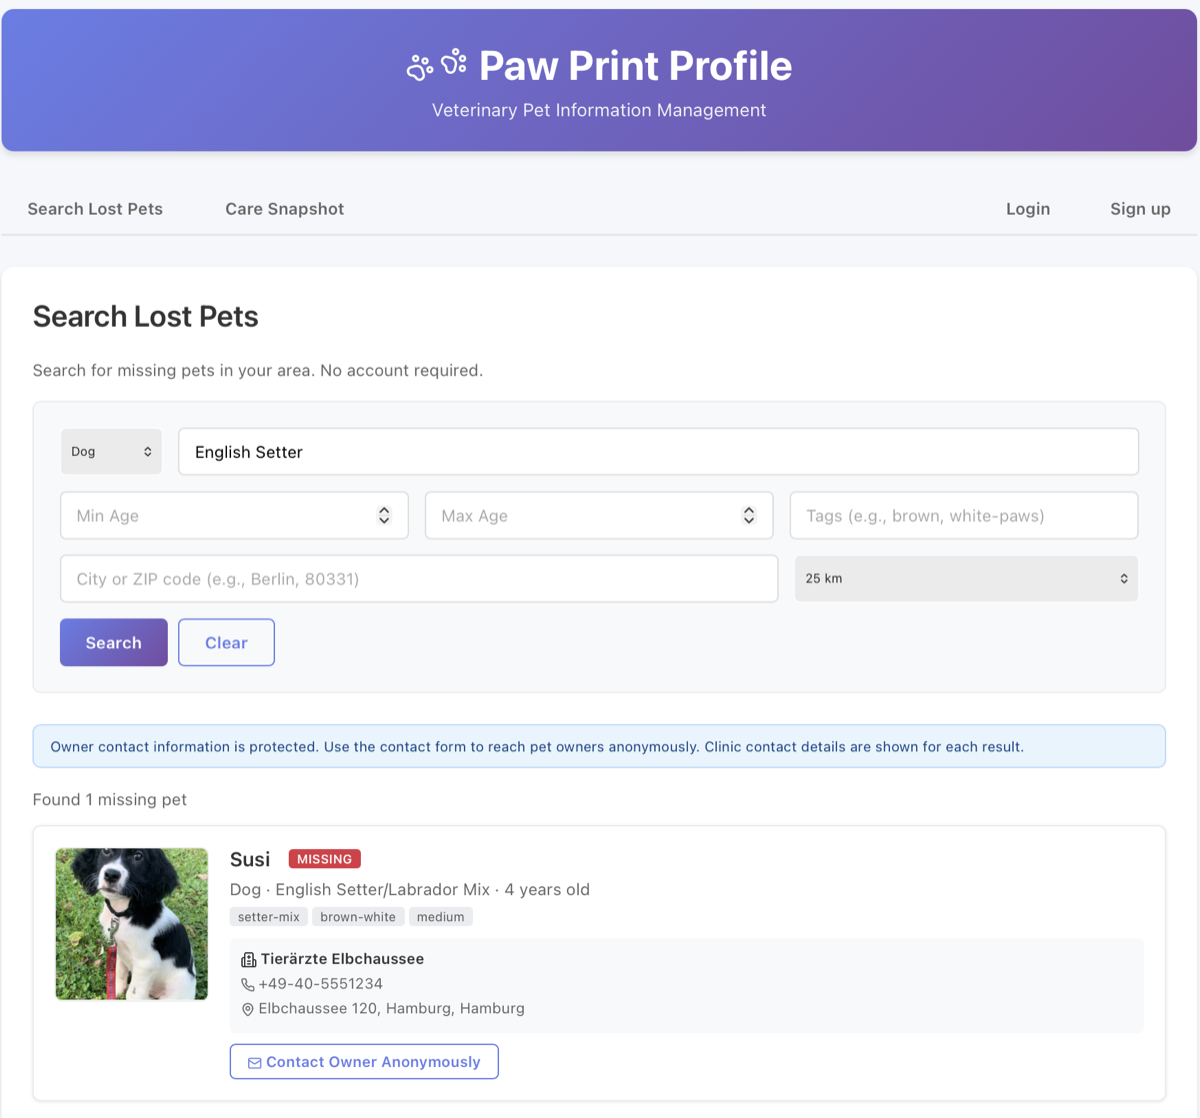
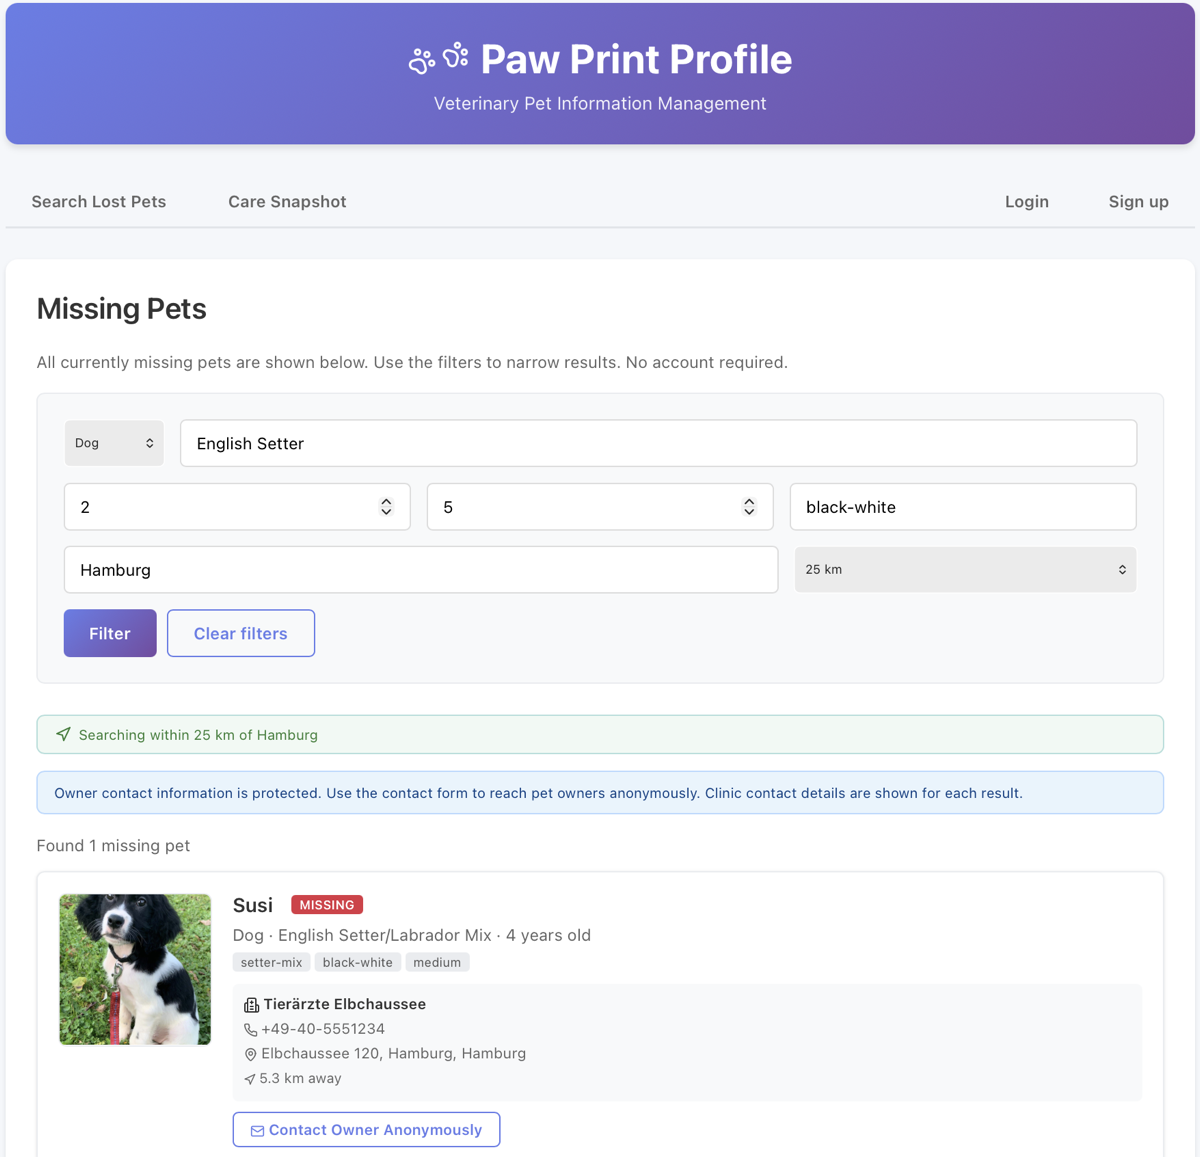
fix(#160): search tag filter, seed reset, architecture docs (#161)
- Denormalize image tags onto pet METADATA record (tags: string[])
- Use DynamoDB FilterExpression with contains() for server-side tag filtering
- ImageRepository.upload() merges tags onto pet record via list_append
- SearchService.searchByLocation() applies tag filtering for location results
- Add --force flag to seed-data.ts (drops/recreates table without container restart)
- Clarify architecture doc: auth handler, notification service, client layer notes
- Update deployment scripts and README reset instructions
- Update search page screenshot

diff --git a/backend/src/repositories/pet-repository.ts b/backend/src/repositories/pet-repository.ts
@@ -489,19 +489,36 @@ export class PetRepository {
   async search(criteria: SearchCriteria): Promise<Pet[]> {
     if (criteria.species) {
       // Use GSI2 for species-based search
+      const expressionAttributeValues: Record<string, any> = {
+        ':species': `SPECIES#${criteria.species}`,
+      }
+
+      // Build FilterExpression for tags (DynamoDB-side filtering)
+      let filterExpression: string | undefined
+      const expressionAttributeNames: Record<string, string> = {}
+
+      if (criteria.tags && criteria.tags.length > 0) {
+        const tagConditions = criteria.tags.map((tag, i) => {
+          expressionAttributeValues[`:tag${i}`] = tag
+          return `contains(#tags, :tag${i})`
+        })
+        filterExpression = tagConditions.join(' AND ')
+        expressionAttributeNames['#tags'] = 'tags'
+      }
+
       const command = new QueryCommand({
         TableName: this.tableName,
         IndexName: 'GSI2',
         KeyConditionExpression: 'GSI2PK = :species',
-        ExpressionAttributeValues: {
-          ':species': `SPECIES#${criteria.species}`,
-        },
+        ExpressionAttributeValues: expressionAttributeValues,
+        ...(filterExpression && { FilterExpression: filterExpression }),
+        ...(Object.keys(expressionAttributeNames).length > 0 && { ExpressionAttributeNames: expressionAttributeNames }),
       })
 
       const response = await this.docClient.send(command)
       let pets = response.Items as Pet[] || []
 
-      // Apply additional filters
+      // Apply additional filters (application-side for non-indexed attributes)
       if (criteria.breed) {
         pets = pets.filter(pet => pet.breed && pet.breed.toLowerCase().includes(criteria.breed!.toLowerCase()))
       }
@@ -517,12 +534,26 @@ export class PetRepository {
       return pets
     } else {
       // Fallback to scan if no species specified
+      const expressionAttributeValues: Record<string, any> = {
+        ':sk': 'METADATA',
+      }
+      const expressionAttributeNames: Record<string, string> = {}
+      const filterConditions: string[] = ['SK = :sk']
+
+      // Add tag filtering (DynamoDB-side)
+      if (criteria.tags && criteria.tags.length > 0) {
+        criteria.tags.forEach((tag, i) => {
+          expressionAttributeValues[`:tag${i}`] = tag
+          filterConditions.push(`contains(#tags, :tag${i})`)
+        })
+        expressionAttributeNames['#tags'] = 'tags'
+      }
+
       const command = new ScanCommand({
         TableName: this.tableName,
-        FilterExpression: 'SK = :sk',
-        ExpressionAttributeValues: {
-          ':sk': 'METADATA',
-        },
+        FilterExpression: filterConditions.join(' AND '),
+        ExpressionAttributeValues: expressionAttributeValues,
+        ...(Object.keys(expressionAttributeNames).length > 0 && { ExpressionAttributeNames: expressionAttributeNames }),
       })
 
       const response = await this.docClient.send(command)

diff --git a/backend/src/infrastructure/seed-data.ts b/backend/src/infrastructure/seed-data.ts
@@ -31,13 +31,13 @@ const TABLE_NAME = process.env.DYNAMODB_TABLE || 'VetPetRegistry'
 
 /** Map of pet names to image tags */
 const IMAGE_TAGS: Record<string, string[]> = {
-  balu: ['golden', 'friendly', 'large'],
+  balu: ['golden', 'retriever', 'friendly', 'large'],
   luna: ['siamese', 'blue-eyes', 'cream'],
   rex: ['german-shepherd', 'black-tan', 'large'],
-  minka: ['tabby', 'domestic-shorthair', 'grey'],
+  minka: ['tuxedo', 'domestic-shorthair', 'grey'],
   olive: ['ridgeback', 'brown', 'muscular'],
   nala: ['persian', 'fluffy', 'white'],
-  askari: ['australian-shepherd', 'white-brown', 'blue-eyes'],
+  askari: ['australian-shepherd', 'white-brown', 'brown-eyes'],
   lotte: ['dachshund', 'brown', 'small'],
   susi: ['setter-mix', 'black-white', 'medium'],
   timmi: ['domestic-shorthair', 'tabby', 'green-eyes'],
@@ -73,12 +73,23 @@ function findSeedImagesDir(): string | null {
 }
 
 async function seed() {
-  console.log('🌱 Seeding test data...\n')
+  const forceReset = process.argv.includes('--force')
+
+  if (forceReset) {
+    console.log('Resetting data (--force flag detected)...\n')
+  } else {
+    console.log('Seeding test data...\n')
+  }
 
   // ── Ensure table exists ──────────────────────────────────────────────────
   const initializer = new DynamoDBTableInitializer(TABLE_NAME)
   const exists = await initializer.tableExists(TABLE_NAME)
-  if (!exists) {
+
+  if (forceReset && exists) {
+    await initializer.deleteTable(TABLE_NAME)
+    console.log('')
+    await initializer.createTable({ tableName: TABLE_NAME })
+  } else if (!exists) {
     console.log('Creating DynamoDB table...')
     await initializer.createTable({ tableName: TABLE_NAME })
   } else {
@@ -95,13 +106,13 @@ async function seed() {
     console.log(`  Found seed images at: ${seedImagesDir}\n`)
   }
 
-  // ── Idempotency check: skip if data already exists ───────────────────────
-  if (exists) {
+  // ── Idempotency check: skip if data already exists (unless --force) ────
+  if (exists && !forceReset) {
     const existingVet = await authService.getUserByEmail('dr.weber@tierarzt-pfoetchen.de')
     if (existingVet) {
-      console.log('\n⚠  Seed data already exists (found vet account). Skipping.')
-      console.log('   To re-seed, run: docker compose down -v && docker compose up -d')
-      console.log('   Then run this script again.\n')
+      console.log('\n[SKIP] Seed data already exists (found vet account). Skipping.')
+      console.log('   To re-seed from scratch, run with --force:')
+      console.log('   docker compose exec backend npx tsx src/infrastructure/seed-data.ts --force\n')
       return
     }
   }

diff --git a/backend/src/repositories/image-repository.ts b/backend/src/repositories/image-repository.ts
@@ -18,6 +18,7 @@ import {
   GetCommand,
   QueryCommand,
   DeleteCommand,
+  UpdateCommand,
 } from '@aws-sdk/lib-dynamodb'
 import { v4 as uuidv4 } from 'uuid'
 import { PetImage, UploadImageInput } from '../models/entities'
@@ -97,6 +98,21 @@ export class ImageRepository {
         Item: petImage,
       })
     )
+
+    // Denormalize: merge image tags onto the pet METADATA record for search filtering
+    if (input.tags.length > 0) {
+      await this.docClient.send(
+        new UpdateCommand({
+          TableName: this.tableName,
+          Key: { PK: `PET#${input.petId}`, SK: 'METADATA' },
+          UpdateExpression: 'SET tags = list_append(if_not_exists(tags, :empty), :newTags)',
+          ExpressionAttributeValues: {
+            ':empty': [] as string[],
+            ':newTags': input.tags,
+          },
+        })
+      )
+    }
 
     return petImage
   }

diff --git a/backend/src/services/search-service.ts b/backend/src/services/search-service.ts
@@ -254,6 +254,11 @@ export class SearchService {
             if (additionalCriteria.ageMax !== undefined && pet.age > additionalCriteria.ageMax) {
               continue
             }
+            if (additionalCriteria.tags && additionalCriteria.tags.length > 0) {
+              const petTags = pet.tags || []
+              const hasAllTags = additionalCriteria.tags.every(tag => petTags.includes(tag))
+              if (!hasAllTags) continue
+            }
           }
 
           // Get images for this pet

diff --git a/backend/src/models/entities.ts b/backend/src/models/entities.ts
@@ -59,6 +59,7 @@ export interface Pet extends DynamoDBEntity {
   isMissing: boolean
   lastSeenLocation?: string     // Stored when pet is reported missing
   flyerUrl?: string             // S3 URL of the generated flyer PDF
+  tags?: string[]               // Denormalized from image tags for search filtering
   customFields?: Record<string, any>
   
   // GSI2 attributes for species/breed search

diff --git a/docs/03_architecture.md b/docs/03_architecture.md
@@ -55,6 +55,12 @@ This UML Component Diagram (UML 2.5, SS11.6) illustrates the internal structural
 
 **Abstraction note:** For clarity, the diagram shows the primary domain-boundary services. Each compute component internally delegates to additional sub-services not shown here (e.g., Emergency Tools internally uses `FlyerGenerationService`, `MissingPetService`, `PhotoGuidanceService`, and `CareSnapshotService`; Pet Co-Onboarding uses `ProfileClaimingService`). An `AuthorizationService` is used as a cross-cutting concern by all handlers to enforce role-based access control.
 
+**Authentication note:** User management operations (sign-up, sign-in, token refresh, profile updates) are handled by a dedicated Auth Lambda handler (`auth-handler.ts`) that wraps Cognito SDK calls. This handler is not shown as a separate compute component because it acts as a thin proxy to AWS Cognito rather than implementing domain logic. API Gateway's Cognito Authorizer independently validates JWT tokens on all protected endpoints.
+
+**Notification note:** The Notification Service is shown as a compute component for conceptual clarity, but in practice it is an internal service class (`NotificationService`) invoked from within the Pet Co-Onboarding and Emergency Tools handlers. It does not have its own Lambda function or API endpoint — it publishes directly to SNS/SES topics when triggered by business logic.
+
+**Client Layer note:** The three client components shown represent logical role-based interfaces, not three separately deployed applications. The actual implementation is a single React SPA with role-based route groups (`/vet/*`, `/owner/*`, and public routes like `/search`). A `RouteGuard` component enforces access based on the authenticated user's role, redirecting unauthorized users.
+
 <img src="./screenshots/component-diagram.png" alt="UML Component Diagram showing the layered serverless architecture" width="800">
 
 <details>

diff --git a/README.md b/README.md
@@ -126,9 +126,10 @@ Or click **Sign up** to create a new account.
 
 ```bash
 docker compose down          # Stop all services
-docker compose down -v       # Stop and remove volumes (full reset)
 docker compose up -d         # Restart
-docker compose exec backend npx tsx src/infrastructure/seed-data.ts  # Re-seed
+
+# Re-seed without restarting containers:
+docker compose exec backend npx tsx src/infrastructure/seed-data.ts --force
 ```
 
 ## Technology Stack
